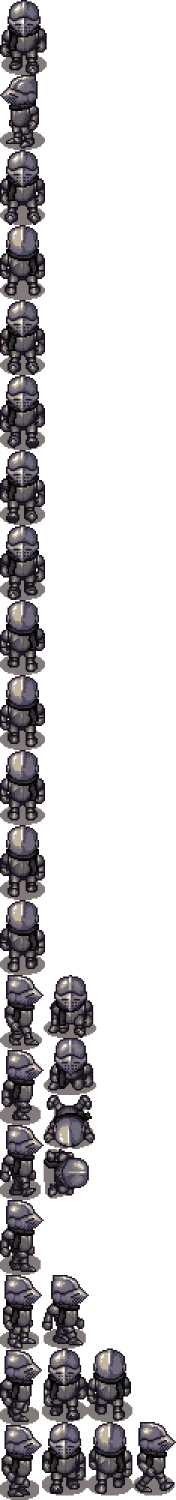
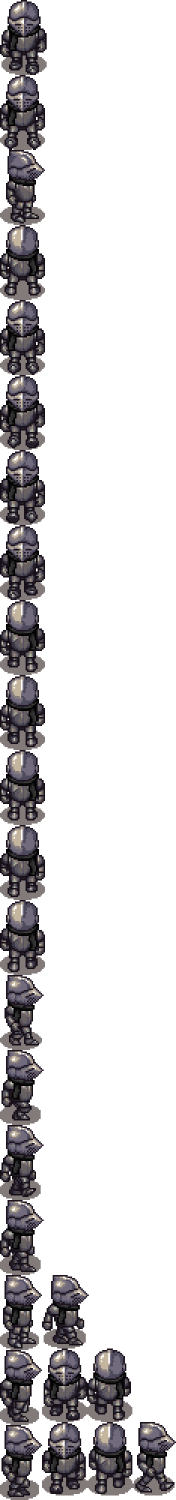
Arreglada animacion de idle al soltar una tecla

Changed region(s): [[0.2273, 0.644, 0.5398, 0.7973], [0.0, 0.0307, 0.2557, 0.1533]]

diff --git a/src/gameSettings/boot.js b/src/gameSettings/boot.js
@@ -70,14 +70,14 @@ export default class Boot extends Phaser.Scene {
     createAnimations() {
     //Top Down
     //Idle
-    this.anims.create({key: 'idle-side', frames: [{ key: 'character', frame: 'idle1.png'}], duration: -1});
-    this.anims.create({key: 'idle-down', frames: [{ key: 'character', frame: 'idle2.png'}], duration: -1});
-    this.anims.create({key: 'idle-up', frames: [{ key: 'character', frame: 'idle3.png'}], duration: -1});
+    this.anims.create({key: 'idle-side', frames: [{ key: 'character', frame: 'idle-side.png'}], duration: -1});
+    this.anims.create({key: 'idle-down', frames: [{ key: 'character', frame: 'idle-down.png'}], duration: -1});
+    this.anims.create({key: 'idle-up', frames: [{ key: 'character', frame: 'idle-up.png'}], duration: -1});
 
     //WalkSide
     this.anims.create({
       key: 'walk-side',
-      frames: this.anims.generateFrameNames('character', {start: 1, end: 9, prefix: 'walk-side', suffix: '.png'}),
+      frames: this.anims.generateFrameNames('character', {start: 1, end: 9, prefix: 'walk-side-', suffix: '.png'}),
       frameRate: 12,
       repeat: -1
     });
@@ -85,7 +85,7 @@ export default class Boot extends Phaser.Scene {
     //WalkDown
     this.anims.create({
       key: 'walk-down',
-      frames: this.anims.generateFrameNames('character', {start: 1, end: 7, prefix: 'walk-down', suffix: '.png'}),
+      frames: this.anims.generateFrameNames('character', {start: 1, end: 7, prefix: 'walk-down-', suffix: '.png'}),
       frameRate: 10,
       repeat: -1
     });
@@ -93,7 +93,7 @@ export default class Boot extends Phaser.Scene {
     //WalkUp
     this.anims.create({
       key: 'walk-up',
-      frames: this.anims.generateFrameNames('character', {start: 1, end: 7, prefix: 'walk-up', suffix: '.png'}),
+      frames: this.anims.generateFrameNames('character', {start: 1, end: 7, prefix: 'walk-up-', suffix: '.png'}),
       frameRate: 10,
       repeat: -1
     });

diff --git a/src/player/playerTopDown.js b/src/player/playerTopDown.js
@@ -30,8 +30,9 @@ export default class PlayerTopDown extends Phaser.GameObjects.Container {
       this.VoidCollGroup_noEff.add(this);
       this.body.pushable = false;
 
-      this.sprite = this.scene.add.sprite(0, 0,'character','idle1.png');
+      this.sprite = this.scene.add.sprite(0, 0,'character','idle-side.png');
       this.add(this.sprite);
+      this.sprite.anims.play('idle-side');
       this.body.setSize(this.body.width * 0.60, this.body.height * 1);
       
       //Informacion del jugador por pantalla
@@ -227,11 +228,7 @@ export default class PlayerTopDown extends Phaser.GameObjects.Container {
               this.body.setVelocityY(this.playerData.vSpeed);
               this.sprite.anims.play('walk-down',true);
             }
-            else {
-              this.body.setVelocityY(0);
-              
-            }
-            if (this.cursors.left.isDown) {
+            else if (this.cursors.left.isDown) {
               this.body.setVelocityX(-this.playerData.speed);
               this.sprite.anims.play('walk-side',true);
               this.sprite.scaleX = -1;
@@ -243,6 +240,10 @@ export default class PlayerTopDown extends Phaser.GameObjects.Container {
             }
             else {
               this.body.setVelocityX(0);
+              this.body.setVelocityY(0);
+              const parts = this.sprite.anims.currentAnim.key.split('-');
+              parts[0] = 'idle';
+              this.sprite.anims.play(parts.join('-'));
             }    
           },
           projectileControl: (dt) => {
